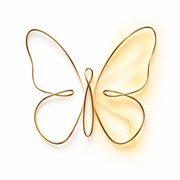
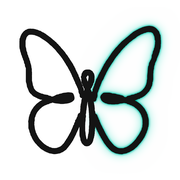
v1.63.0 — 새 앱 아이콘: 데칼코마니 나비 (좌 먹선 · 우 민트 발광 H6)

diff --git a/app.js b/app.js
@@ -323,7 +323,7 @@ const t = (k) => (I18N[LANG] && I18N[LANG][k]) || I18N.ko[k] || k;
 
 /* 화면에 보여 주는 앱 버전 — ⚠ 릴리스 때 sw.js 의 VERSION 과 **함께** 올리세요.
    폰(iOS PWA)은 캐시가 끈질겨서, 이 표시가 옛 버전이면 아직 업데이트 전입니다. */
-const APP_VERSION = "v1.62.0";
+const APP_VERSION = "v1.63.0";
 
 /* ═══ 가이드 플로우 (v1.42.0 · 원장님 지시 2026-08-21) ═══════════════════
    선의 **기본색은 전부 짙은 회색** — 고유색은 그 선이 "지금 차례"(가이드)이거나

diff --git a/sw.js b/sw.js
@@ -2,7 +2,7 @@
    앱 셸은 즉시 캐시, MediaPipe CDN 자산은 처음 사용할 때 캐시(런타임 캐시).
    → 한 번 열어두면 인터넷 없이도 동작합니다. */
 
-const VERSION = "pb-v61";  /* v1.62.0 — 설치 이름 Brow Balance (영어) */
+const VERSION = "pb-v62";  /* v1.63.0 — 새 앱 아이콘: 데칼코마니 나비 (좌 먹선 · 우 민트 발광 H6) */
 const SHELL = "shell-" + VERSION;
 const RUNTIME = "runtime-" + VERSION;
 

diff --git a/클로드-시작-명령서.md b/클로드-시작-명령서.md
@@ -5,7 +5,7 @@
 > 이 문서는 **AI 에게 직접 내리는 지시서**입니다.
 > 원장님은 아무것도 첨부하지 않으십니다. **네가 직접 받아서 읽어라.**
 >
-> 최종 갱신 : 2026-08-22 · 기준 버전 **v1.62.0** · 회귀 테스트 **121/121**
+> 최종 갱신 : 2026-08-22 · 기준 버전 **v1.63.0** · 회귀 테스트 **121/121**
 
 ---
 
@@ -70,7 +70,7 @@ PB_CHROME=/opt/pw-browsers/chromium-1194/chrome-linux/chrome node regression-tes
 `sw.js` · `manifest.webmanifest` 는 배포 단계에서만 열면 된다.
 
 **읽었으면 원장님께 한 줄로 확인해 드려라.**
-`"6개 파일 다 읽었습니다 · 회귀 테스트 121/121 · v1.62.0"`
+`"6개 파일 다 읽었습니다 · 회귀 테스트 121/121 · v1.63.0"`
 (버전은 항상 **app.js 의 `APP_VERSION`** 을 읽어 그 값으로 말한다 — 이 문서의 숫자가 낡았을 수 있다)
 
 **판정**
@@ -148,7 +148,7 @@ git clone --depth 1 https://github.com/leahkshop/perfect-brow.git /home/claude/s
 | 2 | `/home/claude/site-flat/app.js` | 전 로직 (약 1,900줄) |
 | 3 | `/home/claude/site-flat/index.html` | 화면 구조 + 전체 CSS (약 550줄) |
 | 4 | `/home/claude/site-flat/regression-test.mjs` | 회귀 테스트 121항목 |
-| 5 | `/home/claude/site-flat/README.md` | 사용법 (v1.62.0 기준으로 갱신됨) |
+| 5 | `/home/claude/site-flat/README.md` | 사용법 (v1.63.0 기준으로 갱신됨) |
 
 **고치기 전에 시작점이 정상인지 확인해라.**
 
@@ -180,7 +180,7 @@ PB_CHROME=/opt/pw-browsers/chromium-1194/chrome-linux/chrome node regression-tes
 | --- | --- |
 | 라이브 | https://leahkshop.github.io/perfect-brow/ |
 | 저장소 | https://github.com/leahkshop/perfect-brow (**공개**) |
-| 기준 버전 | v1.62.0 |
+| 기준 버전 | v1.63.0 |
 | 회귀 테스트 | 121항목 전 통과 |
 | 복구 지점 | 릴리스 태그 16개 + 로컬 zip 16개 + 맥 `_출력/백업/` |
 | 기술 | 순수 HTML + CSS + 바닐라 JS. **프레임워크·빌드 단계 없음** |
@@ -326,7 +326,7 @@ PB_CHROME=/opt/pw-browsers/chromium-1194/chrome-linux/chrome node regression-tes
 /Users/leahsito/Downloads/perfect-brow-source/_출력/
 ├── Perfect-Brow-대시보드.html      ← 매 버전 갱신
 └── 백업/
-    ├── perfect-brow-v1.62.0.zip   ← 예시 — 최신 버전 번호를 따른다
+    ├── perfect-brow-v1.63.0.zip   ← 예시 — 최신 버전 번호를 따른다
     └── … (버전별 zip 계속)
 ```
 

diff --git a/README.md b/README.md
@@ -5,9 +5,10 @@ PMU 아티스트용 눈썹 대칭·밸런스 가이드 도구.
 
 ### 🔗 https://leahkshop.github.io/perfect-brow/
 
-> **현재 v1.62.0 (sw pb-v61) · 회귀 테스트 121항목 전부 통과**
+> **현재 v1.63.0 (sw pb-v62) · 회귀 테스트 121항목 전부 통과**
 >
-> **최근 변경 (v1.45 ~ v1.62.0)** — 설치 이름 **Brow Balance** ·
+> **최근 변경 (v1.45 ~ v1.63.0)** — 새 앱 아이콘(데칼코마니 나비 · 좌 먹선/우 민트 발광) ·
+> 설치 이름 **Brow Balance** ·
 > **꼬리·아우터 사선 동시 이동**(꼬리 끝 점을 한 손짓으로) ·
 > **원장님 확정 세팅을 앱 기본값으로 못 박음**
 > (얇게 · 짧게 · 투명도 75% · 테두리 없음 / 잡은 선 = 먹 심 · 테두리 없음 · 얇게 · 95%) ·
